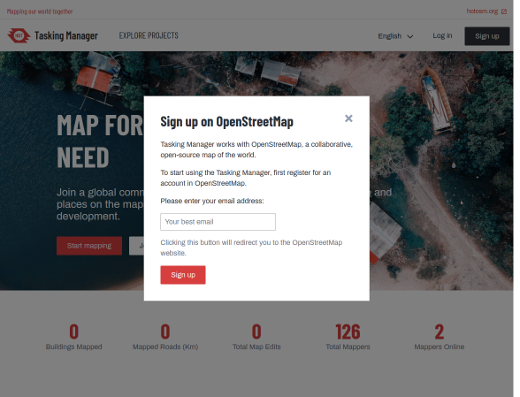
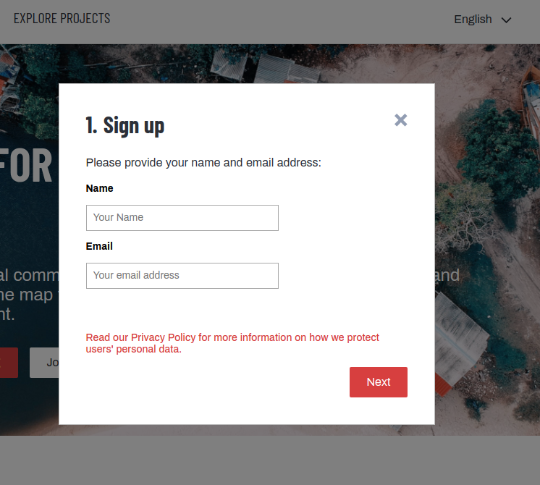
TM4: modified login sequence

diff --git a/_posts/0500-10-25-tm-user_en.md b/_posts/0500-10-25-tm-user_en.md
@@ -35,10 +35,14 @@ Once you are done mapping that small area, you record in the Tasking Manager tha
 
 1. If you already have an OpenStreetMap account then switch to item nr. 4. Otherwise click on 'Sign up' in the upper right corner of the [Tasking Manager](http://tasks.hotosm.org/).
   ![TM Login 1][]
-1. You will be asked to provide an email address
+1. You will be asked to provide a name and an email address
   ![TM Quick Start 1a][]
-1. Confirming this by clicking on 'Sign up' redirects you to https://openstreetmap.org where you should fill in the registration form.
+1. Next you can choose whether to sign up with OpenStreetMap or use an existing account
+ ![TM Quick Start 1b][]
+1. Depending on your choice you are either redirected to the registration form or to a form where you agree to use your credentials
   ![TM Quick Start 1][]
+1. Now you should be set up to work! Or you can return to setting up an account if something went wrong
+ ![TM Quick Start 1c][]
 1. Visit the [Tasking Manager](http://tasks.hotosm.org/) and log in via the upper right corner  
   ![TM Quick Start 2][]
 1. Click on 'Explore Projects' and find a mapping project to work on  
@@ -71,17 +75,21 @@ The Tasking Manager is a separate tool that coordinates mapping in OpenStreetMap
 When you first visit the Tasking Manager you will see a "Sign up" button in the upper right corner of the screen.
 ![TM login 1][]
 
-Click on that button and fill in your email address on the following screen.
+Click on that button and fill in your name and email address on the following screen.
 
 ![TM Quick Start 1a][]
 
-Submit your email address and you will be taken to the OpenStreetMap website. There you will have to login and grant the Tasking Manager access to your OpenStreetMap preferences. Create an account on the OpenStreetMap website if you do not already have one.
+Next you have the choice to either set up a new account with OpenStreetMap or use an existing one. 
+
+![TM Quick Start 1b][]
+
+In the first case you will be taken to the OpenStreetMap website. Here you can register and grant the Tasking Manager access to your OpenStreetMap preferences. Create an account on the OpenStreetMap website if you do not already have one. If you choose to use an existing account you just have to grant access to your preferences.
 
 ![TM login 2][]
 
 ![TM login 3][]
 
-Once you are logged into OpenStreetMap you will be returned to the Tasking Manager, where you can submit more information which will help you use the Tasking Manager.
+Once you are logged into OpenStreetMap you will be returned to the Tasking Manager where you should log in now. Clicking on your username in the upper right corner of the screen shows a context menu which allows you to access your personal settings. Here you can submit more information which will help you use the Tasking Manager.
 
 ## Settings
 
@@ -400,6 +408,8 @@ For those two choices you can and should leave a friendly, encouraging comment a
 [TM overview]: /images/coordination/tm4_overview.png
 [TM Quick Start 1]: /images/coordination/tasking_manager_qs1.png
 [TM Quick Start 1a]: /images/coordination/tm4_qs1a.png
+[TM Quick Start 1b]: /images/coordination/tm4_qs1b.png
+[TM Quick Start 1c]: /images/coordination/tm4_qs1c.png
 [TM Quick Start 2]: /images/coordination/tm4_qs2.png
 [TM Quick Start 3]: /images/coordination/tm4_qs3.png
 [TM Quick Start 4]: /images/coordination/tm4_qs4.png
